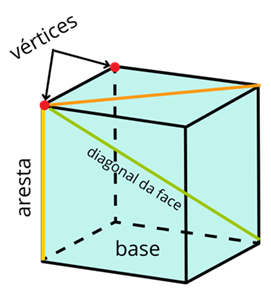
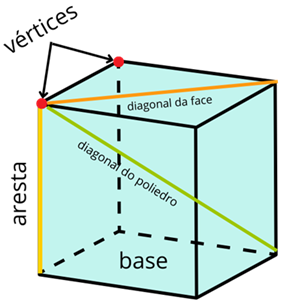
conteudo-cubo

Changed region(s): [[0.0, 0.0, 1.0, 1.0], [0.738, 0.78, 0.8266, 0.84]]

diff --git a/conteudo.html b/conteudo.html
@@ -600,15 +600,9 @@
                                     conhecido
                                     como <b> hexaedro </b>regular, esse poliedro é composto por seis quadrados. O
                                     objeto
-                                    encontrado no cotidiano mais próximo de um cubo é o dado, brinquedo que faz
-                                    parte de diversos jogos infantis Note que esse cubo contém: <br><br>
-                                    <b>Oito vértices:</b> A, B, C, D, E , F , G e H. <br>
-                                    <b>Doze arestas: </b> AB , BC , CD , AD ,
-                                    BF, CG , FG , GH , EH , EF , AE e DH . <br>
-                                    <b>Seis faces: </b> ABCD , EFGH , BFGC , AEHD ,
-                                    CDHG e ABFE. <br><br>
-                                    Além disso , AC é uma diagonal da face e AG é uma diagonal do poliedro
-                                    .
+                                    encontrado no cotidiano mais próximo de um cubo é o dado, um objeto bastante comum em jogos de azar e jogos infantis.  <br>
+                                    
+                                   Um cubo é composto por: <b>Oito vértices, Doze arestas e seis faces</b> Além disso, possui uma diagonal (linha laranja) e uma diagonal do poliedro (linha verde).
                                 </p>
                             </div>
                         </div>
@@ -657,15 +651,9 @@
                                     &emsp;&emsp;A grandeza utilizada para representar o espaço ocupado por um
                                     poliedro é
                                     chamada
-                                    volume . Para se calcular o volume de um cubo , pense na seguinte situação :
+                                    volume. Para se calcular o volume de um cubo, pense na seguinte situação:
                                     imagine
-                                    várias folhas de papel quadradas e idênticas , empilhadas umas sobre as outras ,
-                                    até
-                                    formarem uma altura igual à medida do lado da folha de papel que as compõe .
-                                    Note
-                                    que essas folhas empilhadas formam um cubo totalmente preenchido no seu intenor
-                                    ,
-                                    cuja medida de sua aresta será chamada de a.
+                                 
                                 </p>
                             </div>
                         </div>
@@ -677,12 +665,12 @@
 
                 <p class="text-conteudo">
                     &emsp;&emsp; O volume que essas folhas ocupam no
-                    espaço nada mais é do que a soma de todas as seu volume é dado por : áreas desses
-                    papéis . Desconsiderando os pequenos espaços existentes entre duas folhas , o V = A
-                    · h folhas empilhadas . em que Vé o volume do cubo , A é a área de cada folha de
-                    papel e h , a altura de todas as Pode - se concluir que: Lembre que a altura é a
-                    medida do lado da folha de papel , que é um quadrado de medida a V = a².a do cubo.
-                    em que a é a medida do lado de cada folha de papel , ou seja , é a medida da aresta
+                    espaço nada mais é do que a soma de todas as seu volume é dado por: áreas desses
+                    papéis . Desconsiderando os pequenos espaços existentes entre duas folhas, o V = A
+                    · h folhas empilhadas. em que Vé o volume do cubo, A é a área de cada folha de
+                    papel e h, a altura de todas as Pode - se concluir que: Lembre que a altura é a
+                    medida do lado da folha de papel, que é um quadrado de medida a V = a².a do cubo.
+                    em que a é a medida do lado de cada folha de papel, ou seja, é a medida da aresta
                     V = 0²³
                 </p>
 
@@ -695,13 +683,13 @@
                         <div class="col-md-8">
                             <div class="card-body">
                                 <p class="text-conteudo">
-                                    Também conhecido como paralelepípedo reto - retângulo um bloco retangular pode
+                                    Também conhecido como paralelepípedo reto-retângulo um bloco retangular pode
                                     ser
                                     associado a um
-                                    cubo , cujas faces são retângulos em vez de quadrados . Assim como o cubo , o
+                                    cubo, cujas faces são retângulos em vez de quadrados. Assim como o cubo, o
                                     bloco
                                     retangular
-                                    possui seis faces , doze arestas e oito vértices .
+                                    possui seis faces, doze arestas e oito vértices.
                                 </p>
                             </div>
                         </div>
@@ -764,9 +752,9 @@
                                     <p class="text-conteudo">
                                         <br>
                                         &emsp;&emsp;Em uma infinidade de jogos esportivos, usa-se a bola. E no desporto
-                                        mais popular do mundo, o futebol de campo, tanto amado pelos brasileiros
-                                        nãompoderia ser diferente.
-                                        Afinal a bola de futebol de campo é o exemplo mais simples de uma esfera a ser
+                                        mais popular do mundo e tão amado pelos brasileiros, o futebol de campo,
+                                        não poderia ser diferente.
+                                        Afinal, a bola de futebol de campo é o exemplo mais simples de uma esfera a ser
                                         visto no nosso dia-a-dia.
                                     </p>
                                 </div>
@@ -872,10 +860,10 @@
                                     região amazônica que produz um fruto esférico de cor roxa e é muito utilizado na confecção de alimentos e bebidas. 
                                 </p>
                             </div>
-                        </div>
-                        <div class="col-md-4">
-                            <img src="assets/images/praca-aviao.jpg" class="img-fluid rounded-start" alt="..."
-                                style="width: 250px;">
+                            <div class="col-md-4">
+                                <img src="assets/images/acai.png" class="img-fluid rounded-start" alt="..."
+                                    style="width: 250px;">
+                            </div>
                         </div>
                     </div>
                 </div>
@@ -1015,7 +1003,7 @@
                                 <div class="card-body">
                                     <p class="text-conteudo">
                                         <br>
-                                        &emsp;&emsp;As pirâmides são estudadas desde a Antiguidade . Hoje, a beleza de
+                                        &emsp;&emsp;As pirâmides são estudadas desde a Antiguidade. Hoje, a beleza de
                                         suas formas continua extasiando a todos, como a pirâmide de vidro no Museu do
                                         Louvre, em Paris.
                                     </p>
@@ -1041,7 +1029,7 @@
                                     <b>Altura:</b> distância do vértice ao plano que contém a base. <br>
                                     <b>Vértice:</b> é o ponto para onde concorrem as faces laterais. <br>
                                     <b> Arestas da base:</b> são os lados do polígono da base.<br>
-                                    <b>Arestas laterias: </b> ssão as demais arestas , ou seja , são os lados das faces
+                                    <b>Arestas laterias: </b> ssão as demais arestas, ou seja, são os lados das faces
                                     laterais , exceto as que já são arestas da base.
                                 </p>
                             </div>

diff --git a/README.md b/README.md
@@ -2,8 +2,4 @@
 
 Este produto educacional foi desenvolvido durante o Mestrado Profissional de Ensino para Educação Básica (PPG-ENEB) ofertado pelo Instituto Federal IFGoiano - Campus Urutaí. O Produto foi planejado com o objetivo principal contribuir com o processo de ensino-aprenidzado de geometria não plana no ensino fundamental de uma escola municipal da Região Norte do Brasil, mediante o desenvolvimento de um jogo educacional com Inteligência Artificial.
 
-<<<<<<< HEAD
-
-=======
 ![geo](https://user-images.githubusercontent.com/65419184/190917404-08be5104-7b87-4574-b1c9-6ffa224a1a58.png)
->>>>>>> dcb3e3b300ea497230b973171a25a12891844ef1
